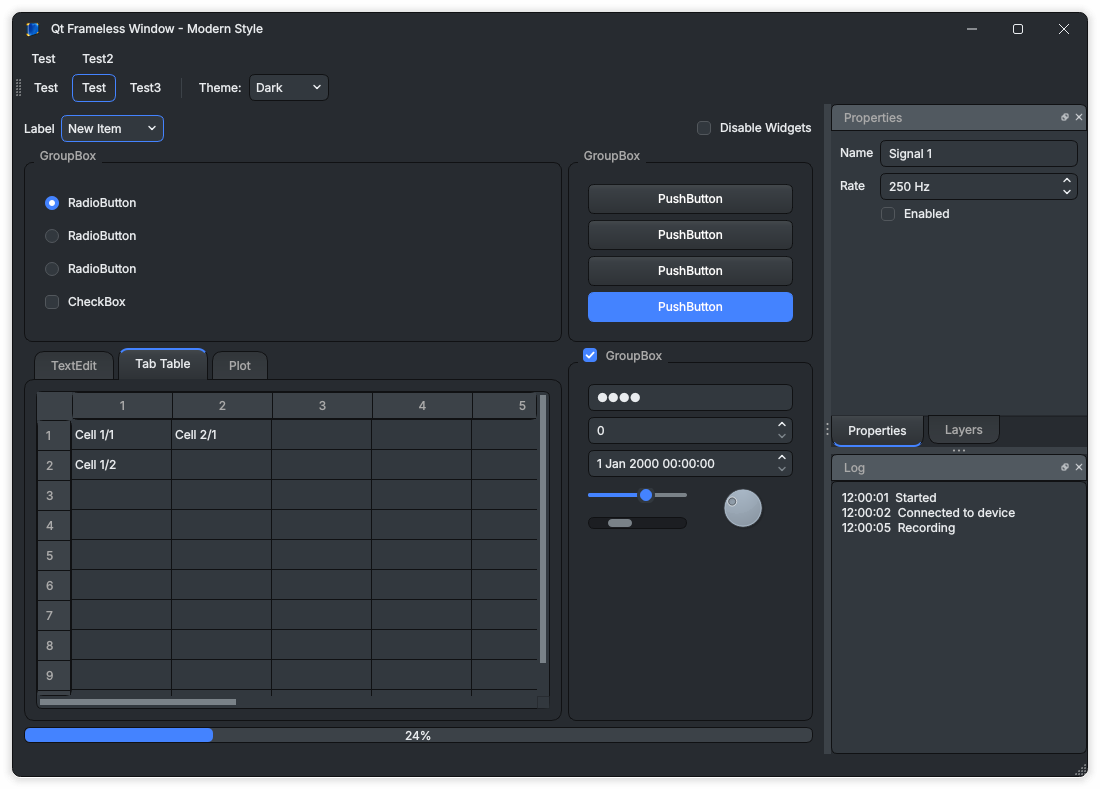
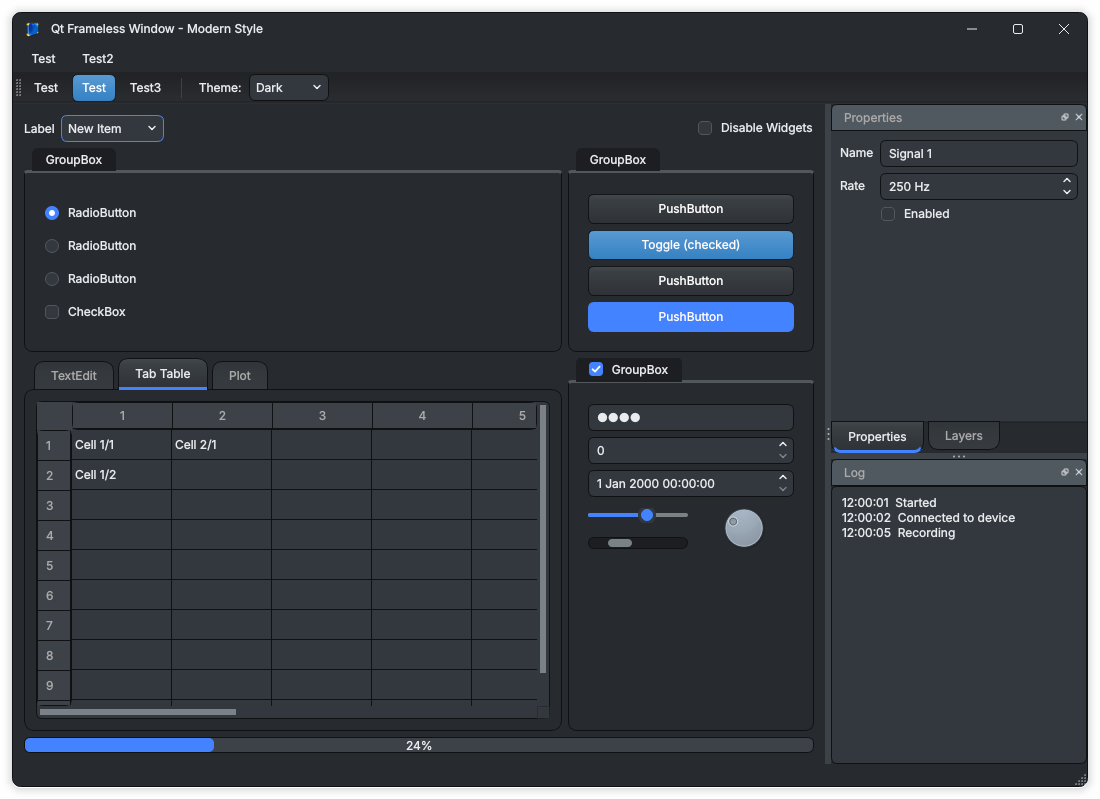
Tab underline, group box title tabs, blue checked buttons, toolbar bands; Spacelab light theme
- Selected tab: 3 px accent line under it (instead of on top).
- Group boxes: the title is a darker rounded tab sitting on a thick
  (3 px) grey top border.
- Checked QPushButton/QToolButton: blue #428bca gradient, darker when
  hovered or pressed (the given dark colours; Spacelab's btn-shadow of the
  same blue in light).
- Toolbars: see-through gradient band per side (top/bottom/left/right)
  with a 3 px edge towards the contents.
- Splitter handles 10 px, dock separators 6 px, palette(highlight) on hover.
- Light theme now follows Bootswatch Spacelab (Slate's light sibling):
  gradient light-grey buttons and tabs, #f8f9fa window, Spacelab greys.
- Demo: a checked toggle button. Screenshots updated.

Claude-Session: https://claude.ai/code/session_01Kn14e4JxntSWfujh7GdBDb

diff --git a/modernstyle/modernstyle.cpp b/modernstyle/modernstyle.cpp
@@ -27,7 +27,9 @@ namespace {
 // The dark theme follows Bootswatch's "Slate" theme for Bootstrap
 // (https://bootswatch.com/slate/, dist/slate/_variables.scss), so a Qt app
 // and a web front end using Slate look alike. Slate's names and Sass
-// expressions are noted next to each colour.
+// expressions are noted next to each colour. The light theme follows Slate's
+// light sibling "Spacelab" (https://bootswatch.com/spacelab/): the same
+// gradient buttons, in light greys.
 QHash<QString, QColor> themeColors(bool dark, const QColor &accent)
 {
     QHash<QString, QColor> c;
@@ -52,27 +54,32 @@ QHash<QString, QColor> themeColors(bool dark, const QColor &accent)
         c["tabHover"] = QColor("#3e444c");
         c["panel"] = QColor("#32383e");           // dock widgets: $card-bg, lighten($body-bg, 5%)
         c["panelHeader"] = QColor("#515960");     // their title bar: $card-cap-bg, lighten($gray-800, 10%)
+        c["groupTitle"] = QColor("#1c1e22");      // group box title tab: darken($gray-900, 5%)
+        c["groupLine"] = QColor("#52575c");       // the thick line under it: $gray-700
     } else {
-        c["window"] = QColor("#f3f3f3");
-        c["surface"] = QColor("#ffffff");
-        c["surfaceAlt"] = QColor("#f7f7f7");
-        c["control"] = QColor("#fbfbfb");
-        c["controlHover"] = QColor("#f0f0f0");
-        c["controlPressed"] = QColor("#e6e6e6");
-        c["border"] = QColor("#d6d6d6");
-        c["borderStrong"] = QColor("#b3b3b3");
-        c["groove"] = QColor("#bdbdbd");
-        c["grooveHover"] = QColor("#8f8f8f");
-        c["grip"] = QColor("#8f8f8f");
-        c["text"] = QColor("#1c1c1c");
-        c["textSecondary"] = QColor("#5c5c5c");
-        c["textDisabled"] = QColor("#a3a3a3");
+        // Spacelab
+        c["window"] = QColor("#f8f9fa");          // $gray-100 (.bg-light)
+        c["surface"] = QColor("#ffffff");         // $body-bg, $card-bg
+        c["surfaceAlt"] = QColor("#f2f2f2");      // table stripes: rgba($black, .05) over white
+        c["control"] = QColor("#eeeeee");         // $gray-200 (.btn-light)
+        c["controlHover"] = QColor("#dbdbdb");    // shade-color($gray-200, 8%)
+        c["controlPressed"] = QColor("#c9c9c9");
+        c["border"] = QColor("#dee2e6");          // $gray-300 ($border-color)
+        c["borderStrong"] = QColor("#bebebe");    // .btn-light's border: shade-color($gray-200, 20%)
+        c["groove"] = QColor("#b5b5b5");
+        c["grooveHover"] = QColor("#777777");     // $gray-600
+        c["grip"] = QColor("#777777");
+        c["text"] = QColor("#2d2d2d");            // $headings-color ($gray-900)
+        c["textSecondary"] = QColor("#666666");   // near $body-color ($gray-600, #777), a little darker to read well
+        c["textDisabled"] = QColor("#999999");    // $gray-500
         c["menu"] = QColor("#ffffff");
         c["tooltip"] = QColor("#ffffff");
-        c["tab"] = QColor("#e7e7e7");
-        c["tabHover"] = QColor("#dedede");
-        c["panel"] = QColor("#ffffff");
-        c["panelHeader"] = QColor("#e8e8e8");
+        c["tab"] = QColor("#eeeeee");
+        c["tabHover"] = QColor("#dbdbdb");
+        c["panel"] = QColor("#ffffff");           // $card-bg
+        c["panelHeader"] = QColor("#eeeeee");     // $gray-200 (.navbar.bg-light)
+        c["groupTitle"] = QColor("#dee2e6");      // $gray-300
+        c["groupLine"] = QColor("#adb5bd");
     }
     // The accent, a little lighter on dark backgrounds so it stands out
     c["accent"] = dark ? accent.lighter(115) : accent;
@@ -118,32 +125,52 @@ QHash<QString, QString> themeFills(bool dark, const QHash<QString, QColor> &c)
         f["tabSelectedFill"] = raised;
         // Tool buttons (toolbars) are flat until the mouse is over them; then
         // they light up: Slate's raised button, a step brighter (tint 12%
-        // instead of 5% at the top). Checked: pressed in (btn-shadow-inverse-
-        // dark), lighting up the same way when the mouse is over them.
+        // instead of 5% at the top).
         f["toolHoverFill"] = verticalGradient("#53575c", "#474c50", 0.2, "#3a3f44");
-        f["toolCheckedFill"] = verticalGradient("#25282c", "#292c30", 0.4, "#2b2f32");
-        f["toolCheckedHoverFill"] = f["toolHoverFill"];
+        // Checked buttons and tool buttons: blue; darker (pressed in) when
+        // the mouse is over them
+        f["checkedFill"] = verticalGradient("#5a9ad1", "#428bca", 0.6, "#3681c1");
+        f["checkedHoverFill"] = verticalGradient("#204c72", "#275c8a", 0.4, "#296192");
+        f["checkedBorder"] = f["buttonBorder"];
+        // Toolbars: a dark, see-through band with a 3 px edge towards the
+        // window (top: edge at the bottom, left: edge on the right, ...)
+        f["toolbarDarkEnd"] = QStringLiteral("rgba(25, 25, 25, 127)");
+        f["toolbarLightEnd"] = QStringLiteral("rgba(53, 53, 53, 75)");
     } else {
-        f["buttonFill"] = c["control"].name();
-        f["buttonHoverFill"] = c["controlHover"].name();
-        f["buttonPressedFill"] = c["controlPressed"].name();
-        f["buttonBorder"] = c["border"].name();
-        f["buttonHoverBorder"] = c["borderStrong"].name();
-        f["buttonText"] = c["text"].name();
-        f["tabFill"] = c["tab"].name();
-        f["tabHoverFill"] = c["tabHover"].name();
+        // Spacelab's btn-shadow(): tint 24% -> the colour at 50% -> shade 8%,
+        // border shade 20%. Buttons are .btn-light ($gray-200); hovered,
+        // btn-shadow(shade-color($gray-200, 8%)) as in Spacelab.
+        f["buttonFill"] = verticalGradient("#f2f2f2", "#eeeeee", 0.5, "#dbdbdb");
+        f["buttonHoverFill"] = verticalGradient("#e4e4e4", "#dbdbdb", 0.5, "#c9c9c9");
+        f["buttonPressedFill"] = verticalGradient("#c4c4c4", "#cdcdcd", 0.4, "#d4d4d4");
+        f["buttonBorder"] = c["borderStrong"].name();
+        f["buttonHoverBorder"] = QStringLiteral("#afafaf");
+        f["buttonText"] = QStringLiteral("#333333");          // $gray-800
+        f["tabFill"] = f["buttonFill"];
+        f["tabHoverFill"] = f["buttonHoverFill"];
         f["tabSelectedFill"] = c["window"].name();
-        f["toolHoverFill"] = c["controlHover"].name();
-        QColor checked = c["accent"], checkedHover = c["accent"];
-        checked.setAlpha(45);
-        checkedHover.setAlpha(80);     // lights up: a stronger tint of the accent
-        auto rgba = [](const QColor &color) {
-            return QStringLiteral("rgba(%1, %2, %3, %4)")
-                .arg(color.red()).arg(color.green()).arg(color.blue()).arg(color.alpha());
-        };
-        f["toolCheckedFill"] = rgba(checked);
-        f["toolCheckedHoverFill"] = rgba(checkedHover);
+        f["toolHoverFill"] = f["buttonFill"];
+        // Checked: btn-shadow() of the same blue as the dark theme (#428bca),
+        // darker when hovered (btn-shadow(shade-color(#428bca, 8%)))
+        f["checkedFill"] = verticalGradient("#6fa7d7", "#428bca", 0.5, "#3d80ba");
+        f["checkedHoverFill"] = verticalGradient("#6c9eca", "#3d80ba", 0.5, "#3876ab");
+        f["checkedBorder"] = QStringLiteral("#356fa2");       // shade-color(#428bca, 20%)
+        // Toolbars: a light band, see-through like the dark one
+        f["toolbarDarkEnd"] = QStringLiteral("rgba(206, 212, 218, 150)");
+        f["toolbarLightEnd"] = QStringLiteral("rgba(255, 255, 255, 120)");
     }
+    f["checkedText"] = QStringLiteral("#ffffff");
+    // The toolbar gradients, one per side, from the two ends above: the
+    // darker end is towards the window's edge
+    const QString dark0 = f["toolbarDarkEnd"], light0 = f["toolbarLightEnd"];
+    auto band = [&](const char *coords) {
+        return QStringLiteral("qlineargradient(%1, stop:0 %2, stop:1 %3)")
+            .arg(QLatin1String(coords), dark0, light0);
+    };
+    f["toolbarTopFill"] = band("x1:0, y1:0, x2:0, y2:1");
+    f["toolbarBottomFill"] = band("x1:0, y1:1, x2:0, y2:0");
+    f["toolbarLeftFill"] = band("x1:0, y1:0, x2:1, y2:0");
+    f["toolbarRightFill"] = band("x1:1, y1:0, x2:0, y2:0");
     return f;
 }
 

diff --git a/demo/mainwindow.cpp b/demo/mainwindow.cpp
@@ -56,6 +56,11 @@ MainWindow::MainWindow(ModernStyle *style, QWidget *parent)
     splitter->addWidget(ui->textEdit);
     splitter->setSizes({ 160, 400 });
 
+    // A toggle button, checked: shows the checked look
+    ui->pushButton_2->setCheckable(true);
+    ui->pushButton_2->setChecked(true);
+    ui->pushButton_2->setText(tr("Toggle (checked)"));
+
     // Theme switcher in the toolbar, filled from the style's theme names
     if (style) {
         auto *themes = new QComboBox(this);

diff --git a/README.md b/README.md
@@ -19,12 +19,15 @@ Version 2 of this fork brings the original [Qt-Frameless-Window-DarkStyle](https
 - Takes its title and icon from the content (e.g. your `QMainWindow`) and follows later title changes.
 
 **ModernStyle**
-- **The dark theme matches [Bootswatch Slate](https://bootswatch.com/slate/)**, so a Qt app and a Bootstrap web front end using Slate look alike: the same background (`#272b30`), panels, near-black borders, grey text, and Slate's gradient buttons and tabs (raised, sunken on hover, darker when pressed). The values come from Slate's own Sass (`_variables.scss`, `_bootswatch.scss`) and were checked pixel by pixel against Slate rendered in a browser. The light theme is ModernStyle's own.
+- **The dark theme matches [Bootswatch Slate](https://bootswatch.com/slate/)**, so a Qt app and a Bootstrap web front end using Slate look alike: the same background (`#272b30`), panels, near-black borders, grey text, and Slate's gradient buttons and tabs (raised, sunken on hover, darker when pressed). The values come from Slate's own Sass (`_variables.scss`, `_bootswatch.scss`) and were checked pixel by pixel against Slate rendered in a browser. **The light theme follows [Bootswatch Spacelab](https://bootswatch.com/spacelab/)**, Slate's light sibling: the same gradient buttons in light greys, a `#f8f9fa` background and white panels.
 - Light and dark themes, flat and rounded, with one accent colour for selections, default buttons, focus, sliders, progress bars, check boxes and radio buttons.
 - `Theme::System` (default) follows the OS light/dark setting and **switches live when it changes** (Qt 6.5+; older Qt picks at start-up).
 - Switch at run time with `setTheme()`, change the accent with `setAccentColor()`.
 - Themes by name, e.g. for a settings dialog or a command-line option: `getThemeNames()` gives `"System", "Light", "Dark"`, `ModernStyle::themeFromName("dark")` the theme (any case; `Theme::Invalid` for an unknown name), `ModernStyle::themeName(theme)` the name back.
-- Splitter handles and the gaps between dock widgets have grip dots and turn the accent colour under the mouse; slider tracks and scroll bar handles are drawn in a colour that stands out on both the window and panels.
+- Checked buttons and tool buttons are blue (a `#428bca` gradient) and turn darker under the mouse; unchecked tool buttons light up under the mouse.
+- The selected tab has a blue line under it. Group box titles are darker, rounded tabs sitting on a thick grey line.
+- Toolbars are a see-through band, darker towards the window edge, with a 3 px edge towards the contents (top, bottom, left and right toolbars).
+- Splitter handles (10 px) and the gaps between dock widgets (6 px) have grip dots and turn `palette(highlight)` under the mouse; slider tracks and scroll bar handles are drawn in a colour that stands out on both the window and panels.
 - Based on Qt's Fusion style, plus one readable style sheet (`modernstyle/modernstyle.qss`) with named colours (`@accent`, `@border`, ...) you can edit.
 - Check boxes, radio buttons and arrows are drawn in the theme's colours at 1× and 2×: no image files, no Qt SVG module needed.
 - **Dock widgets are panels like Slate's cards**: a lighter body (`$card-bg`, `#32383e`) and a header-coloured title bar (`$card-cap-bg`, `#515960`) with rounded top corners and clear close / float buttons. Splitter handles, the gaps between dock widgets and the menu and toolbar separators use `palette(alternate-base)`.
